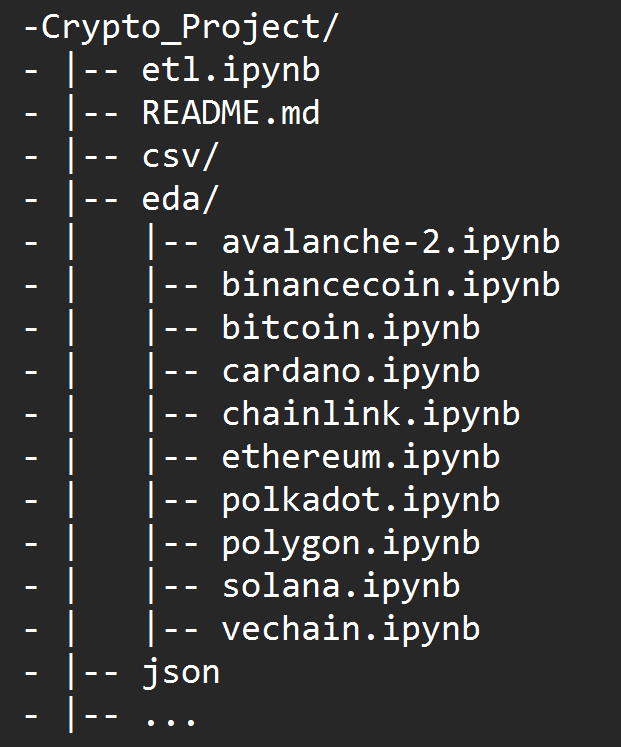
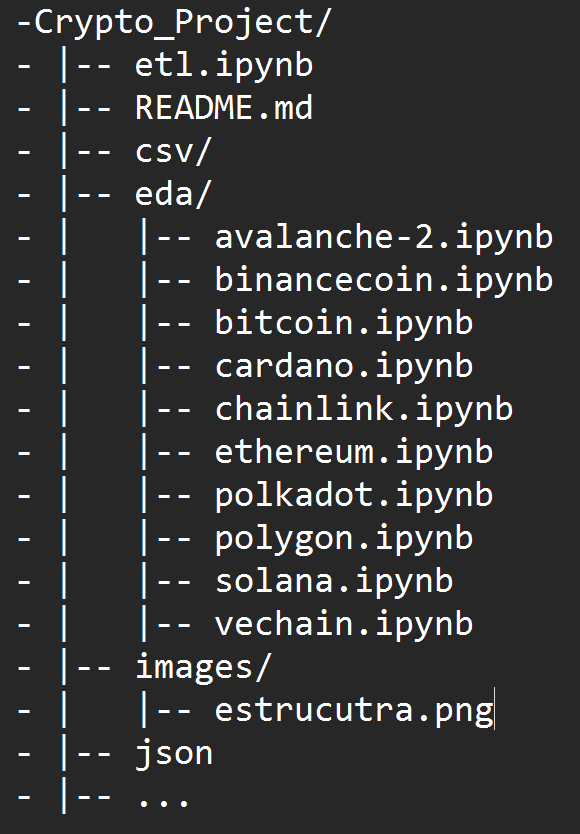
Commit de cambios varios3

diff --git a/README.md b/README.md
@@ -22,7 +22,7 @@ Se puede leer el contexto y rol a desarrollar en https://github.com/soyHenry/PI_
 
 ### Estructura
 
-<img src="images/estructura.png" alt="estructura" width="220">
+<img src="images/estructura.png" alt="estructura" width="240">
 
 
 - `Crypto_Project/`: directorio raíz del repositorio de GitHub, contiene todos los archivos y carpetas relacionados con el proyecto.
@@ -31,6 +31,7 @@ Se puede leer el contexto y rol a desarrollar en https://github.com/soyHenry/PI_
 - `README.md`: notebook que contiene código utilizado para realizar la extracción, transformación y carga de datos (Extract, Transform-ETL).
 - `csv/`: directorio que contiene los archivos obtenidos de laa Api CionGecko por cada criptomoneda elegida para el proyecto.
 - `eda/`: directorio que contiene un notebook por cada criptomoneda elegida con el análisis exploratorio de los datos (Exploratory Data Analysis-EDA).
+- `imges/`: directorio que contiene imagenes paaraa el README.
 
 ### Escala
 En función de consignas y requerimientos se obtuvo la fecha mas antigua de registro de datos en la Api. para cada criptomoneda, a partir de ahi datasets individuales.
